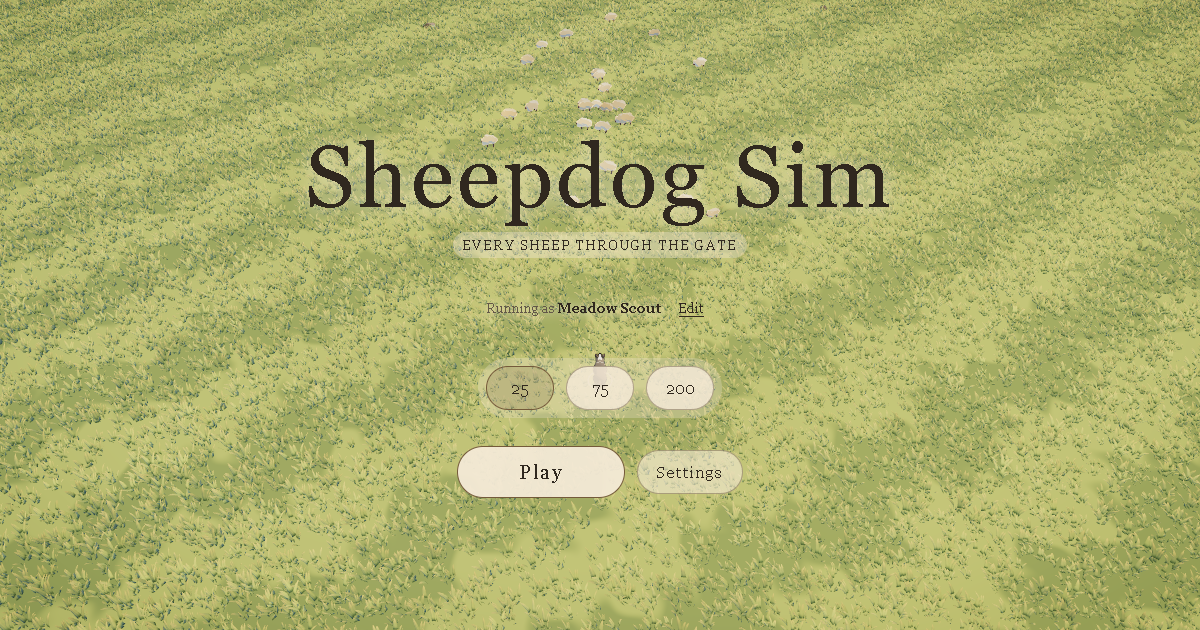
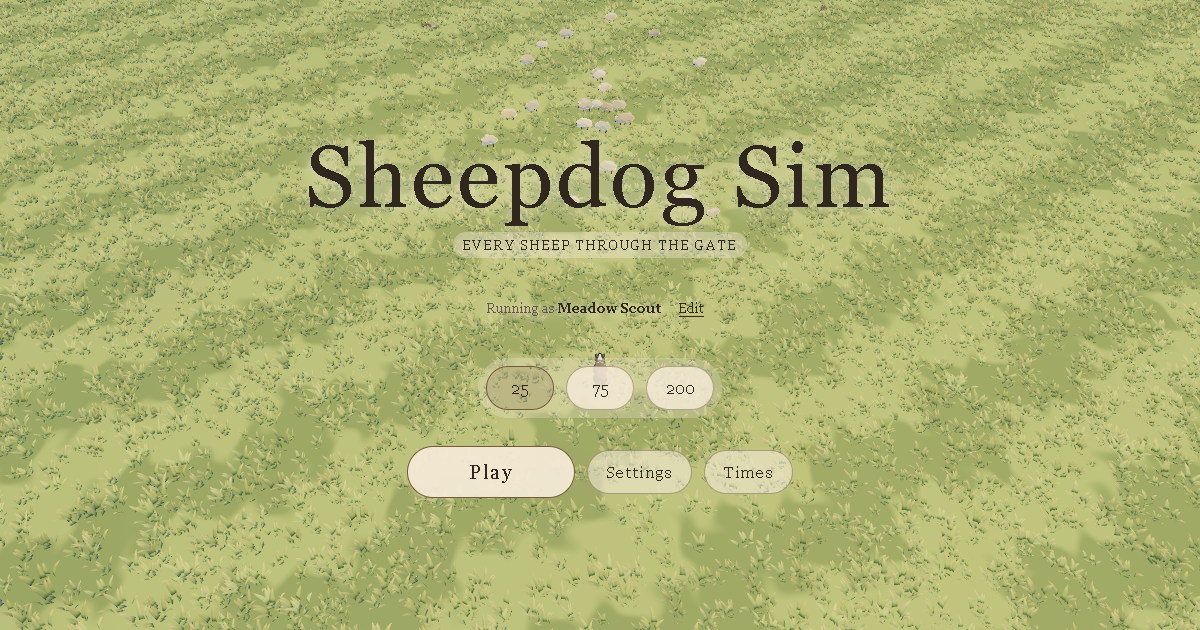
feat(scores): surface solo times before play

Changed region(s): [[0.0, 0.0, 1.0, 1.0]]

diff --git a/app/src/scores/LeaderboardPanel.tsx b/app/src/scores/LeaderboardPanel.tsx
@@ -1,0 +1,83 @@
+// SPDX-License-Identifier: AGPL-3.0-or-later
+// Copyright (c) 2026 Matthew Kissinger
+
+import { useEffect, useState } from 'react';
+import { FLOCK_SIZES, type FlockSize } from '@app/state/store';
+import { formatRunTime } from '@app/ui/time';
+import { scoresController } from './controller';
+import { useScoreStore } from './store';
+
+export function LeaderboardPanel({
+  initialFlockSize,
+  onClose,
+}: {
+  readonly initialFlockSize: FlockSize;
+  readonly onClose: () => void;
+}) {
+  const [flockSize, setFlockSize] = useState(initialFlockSize);
+  const status = useScoreStore((state) => state.boardStatus);
+  const entries = useScoreStore((state) => state.boardEntries);
+  const message = useScoreStore((state) => state.boardMessage);
+
+  useEffect(() => {
+    void scoresController.loadBoard(flockSize);
+  }, [flockSize]);
+
+  useEffect(() => {
+    const closeOnEscape = (event: KeyboardEvent) => {
+      if (event.key === 'Escape') onClose();
+    };
+    window.addEventListener('keydown', closeOnEscape);
+    return () => {
+      window.removeEventListener('keydown', closeOnEscape);
+    };
+  }, [onClose]);
+
+  return (
+    <div className="herd-modal" role="dialog" aria-modal="true" aria-labelledby="times-title">
+      <section className="herd-panel herd-board-panel">
+        <header className="herd-panel__header">
+          <div>
+            <p className="herd-panel__kicker">Fastest complete runs</p>
+            <h2 id="times-title" className="herd-panel__title">Solo times</h2>
+          </div>
+          <button
+            type="button"
+            className="herd-icon-button"
+            aria-label="Close solo times"
+            autoFocus
+            onClick={onClose}
+          >
+            Close
+          </button>
+        </header>
+        <div className="herd-board-tabs" aria-label="Flock size">
+          {FLOCK_SIZES.map((size) => (
+            <button
+              key={size}
+              type="button"
+              className="herd-size"
+              aria-pressed={size === flockSize}
+              onClick={() => setFlockSize(size)}
+            >
+              {size}
+            </button>
+          ))}
+        </div>
+        <p className="herd-board-caption">Fastest runs with {flockSize} sheep.</p>
+        {status === 'loading' || status === 'offline' || entries.length === 0 ? (
+          <p className="herd-board-message" role="status">{message}</p>
+        ) : (
+          <ol className="herd-board-list" aria-label={`${flockSize}-sheep solo times`}>
+            {entries.slice(0, 10).map((entry) => (
+              <li key={entry.persistentId}>
+                <span><span className="herd-board-rank">{entry.rank}.</span> {entry.displayName}</span>
+                <span>{formatRunTime(entry.scoreSeconds * 1000)}</span>
+              </li>
+            ))}
+          </ol>
+        )}
+      </section>
+    </div>
+  );
+}

diff --git a/app/src/scores/controller.ts b/app/src/scores/controller.ts
@@ -1,7 +1,7 @@
 // SPDX-License-Identifier: AGPL-3.0-or-later
 // Copyright (c) 2026 Matthew Kissinger
 
-import { useGameStore } from '@app/state/store';
+import { useGameStore, type FlockSize } from '@app/state/store';
 import { createScoreApi, ScoreApiError, type ScoreApi } from './api';
 import { scoreApiBase } from './config';
 import { browserIdentityStorage, type IdentityStorage } from './storage';
@@ -12,6 +12,7 @@ export interface ScoresController {
   start(): () => void;
   ensureIdentity(): Promise<ScoreIdentity | null>;
   rename(displayName: string): Promise<boolean>;
+  loadBoard(flockSize: FlockSize): Promise<void>;
   submit(run: CompletedRun): Promise<void>;
 }
 
@@ -22,6 +23,7 @@ export function createScoresController(
   let token: string | null = null;
   let identityPromise: Promise<ScoreIdentity | null> | null = null;
   let lastRunKey = '';
+  let boardRequest = 0;
 
   const register = async (fresh = false): Promise<ScoreIdentity> => {
     const stored = fresh ? null : storage.load();
@@ -167,6 +169,34 @@ export function createScoresController(
           : 'Name change is unavailable. Play still works.';
         useScoreStore.getState().patch({ renaming: false, renameMessage: message });
         return false;
+      }
+    },
+
+    async loadBoard(flockSize) {
+      const request = ++boardRequest;
+      useScoreStore.getState().patch({
+        boardStatus: 'loading',
+        boardFlockSize: flockSize,
+        boardEntries: [],
+        boardMessage: `Loading ${flockSize}-sheep times.`,
+      });
+      try {
+        const entries = await api.leaderboard(flockSize);
+        if (request !== boardRequest) return;
+        useScoreStore.getState().patch({
+          boardStatus: 'ready',
+          boardFlockSize: flockSize,
+          boardEntries: entries,
+          boardMessage: entries.length === 0 ? 'No times yet. Yours could be first.' : '',
+        });
+      } catch {
+        if (request !== boardRequest) return;
+        useScoreStore.getState().patch({
+          boardStatus: 'offline',
+          boardFlockSize: flockSize,
+          boardEntries: [],
+          boardMessage: 'Online times are unavailable. Play still works.',
+        });
       }
     },
 

diff --git a/app/src/ui/Boot.tsx b/app/src/ui/Boot.tsx
@@ -9,6 +9,7 @@ import {
 } from '@app/state/store';
 import { useReducedMotion } from './useReducedMotion';
 import { PlayerIdentity } from '@app/scores/PlayerIdentity';
+import { LeaderboardPanel } from '@app/scores/LeaderboardPanel';
 
 export function Boot() {
   const startGame = useGameStore((state) => state.startGame);
@@ -18,8 +19,15 @@ export function Boot() {
   const defaultFlockSize = useGameStore((state) => state.flockSize);
   const [flockSize, setFlockSize] = useState<FlockSize>(defaultFlockSize);
   const [leaving, setLeaving] = useState(false);
+  const [showTimes, setShowTimes] = useState(false);
   const timeout = useRef<number | null>(null);
+  const timesButton = useRef<HTMLButtonElement | null>(null);
   const reducedMotion = useReducedMotion();
+
+  const closeTimes = () => {
+    setShowTimes(false);
+    window.requestAnimationFrame(() => timesButton.current?.focus());
+  };
 
   useEffect(() => () => {
     if (timeout.current !== null) window.clearTimeout(timeout.current);
@@ -82,8 +90,19 @@ export function Boot() {
           >
             Settings
           </button>
+          <button
+            ref={timesButton}
+            type="button"
+            className="herd-button herd-button--quiet"
+            onClick={() => setShowTimes(true)}
+          >
+            Times
+          </button>
         </div>
       </main>
+      {showTimes ? (
+        <LeaderboardPanel initialFlockSize={flockSize} onClose={closeTimes} />
+      ) : null}
     </div>
   );
 }

diff --git a/app/src/ui/UiStyles.tsx b/app/src/ui/UiStyles.tsx
@@ -70,6 +70,13 @@ canvas { display: block; touch-action: none; }
 .herd-online-times p { margin: 0 0 var(--herd-s3); }
 .herd-online-times ol { width: 100%; display: grid; gap: var(--herd-s1); margin: 0; padding: var(--herd-s3) 0 0; border-top: 1px solid var(--herd-line); list-style: none; }
 .herd-online-times li { display: flex; justify-content: space-between; gap: var(--herd-s4); font-variant-numeric: tabular-nums; text-align: left; }
+.herd-board-panel { width: min(92vw, 520px); }
+.herd-board-tabs { display: flex; justify-content: center; gap: var(--herd-s3); margin-bottom: var(--herd-s4); }
+.herd-board-caption { margin: 0 0 var(--herd-s4); color: var(--herd-ink-soft); text-align: center; }
+.herd-board-message { min-height: 120px; display: grid; place-items: center; margin: 0; color: var(--herd-ink-soft); text-align: center; }
+.herd-board-list { display: grid; gap: var(--herd-s2); margin: 0; padding: var(--herd-s4) 0 0; border-top: 1px solid var(--herd-line); list-style: none; }
+.herd-board-list li { min-height: 34px; display: flex; align-items: center; justify-content: space-between; gap: var(--herd-s4); font-variant-numeric: tabular-nums; }
+.herd-board-rank { color: var(--herd-ink-soft); }
 .herd-panel-actions { display: flex; flex-direction: column; align-items: stretch; gap: var(--herd-s3); margin-top: var(--herd-s5); }
 .herd-settings-list { display: grid; gap: var(--herd-s5); }
 .herd-setting { display: grid; gap: var(--herd-s2); }

diff --git a/app/src/scores/store.ts b/app/src/scores/store.ts
@@ -7,6 +7,7 @@ import type { LeaderboardEntry, ScoreIdentity } from './types';
 
 export type IdentityStatus = 'idle' | 'connecting' | 'ready' | 'offline';
 export type SubmissionStatus = 'idle' | 'submitting' | 'ready' | 'offline';
+export type BoardStatus = 'idle' | 'loading' | 'ready' | 'offline';
 
 export interface ScoreStore {
   readonly identityStatus: IdentityStatus;
@@ -19,6 +20,10 @@ export interface ScoreStore {
   readonly entries: readonly LeaderboardEntry[];
   readonly rank: number | null;
   readonly submissionMessage: string;
+  readonly boardStatus: BoardStatus;
+  readonly boardFlockSize: FlockSize;
+  readonly boardEntries: readonly LeaderboardEntry[];
+  readonly boardMessage: string;
   patch(patch: Partial<Omit<ScoreStore, 'patch'>>): void;
 }
 const INITIAL = {
@@ -32,6 +37,10 @@ const INITIAL = {
   entries: [] as readonly LeaderboardEntry[],
   rank: null,
   submissionMessage: '',
+  boardStatus: 'idle' as const,
+  boardFlockSize: 25 as FlockSize,
+  boardEntries: [] as readonly LeaderboardEntry[],
+  boardMessage: '',
 };
 
 export const useScoreStore = create<ScoreStore>()((set) => ({

diff --git a/tests/scores-controller.spec.ts b/tests/scores-controller.spec.ts
@@ -140,4 +140,28 @@ describe('scores controller', () => {
       submissionMessage: 'Your local time is safe. The online board is unavailable.',
     });
   });
+
+  it('loads a public board without requiring a player identity', async () => {
+    let registered = false;
+    const api: ScoreApi = {
+      async register() { registered = true; return freshReceipt; },
+      async rename() { return freshReceipt.playerProfile; },
+      async submit() {},
+      async leaderboard(flockSize) {
+        expect(flockSize).toBe(75);
+        return [{
+          rank: 1, persistentId: 'pid-fast', displayName: 'SwiftShepherd',
+          fullName: 'SwiftShepherd#0001', scoreSeconds: 64.25,
+        }];
+      },
+    };
+
+    await createScoresController(api, memoryStorage()).loadBoard(75);
+
+    expect(registered).toBe(false);
+    expect(useScoreStore.getState()).toMatchObject({
+      boardStatus: 'ready', boardFlockSize: 75,
+      boardEntries: [{ displayName: 'SwiftShepherd', scoreSeconds: 64.25 }],
+    });
+  });
 });

diff --git a/tests/public-surface.spec.ts b/tests/public-surface.spec.ts
@@ -62,6 +62,16 @@ describe('public version 3 surface', () => {
     expect(controls).toContain('SPRINT_DEFLECTION');
   });
 
+  it('makes solo times reachable before a run', () => {
+    const boot = read('app/src/ui/Boot.tsx');
+    const board = read('app/src/scores/LeaderboardPanel.tsx');
+    expect(boot).toContain('setShowTimes(true)');
+    expect(boot).toContain('Times');
+    expect(board).toContain('Solo times');
+    expect(board).toContain('FLOCK_SIZES.map');
+    expect(board).toContain('scoresController.loadBoard');
+  });
+
   it('redirects retired version 2 scene pages and publishes the source routes', () => {
     const redirects = read('app/public/_redirects');
     const sitemap = read('app/public/sitemap.xml');

diff --git a/STATUS.md b/STATUS.md
@@ -12,6 +12,8 @@ deployment claim.
   `https://7cea2cd2.sds-frontend.pages.dev`.
 - Multiplayer and the 5,000-sheep player path are absent from the version 3
   client. Solo-time boards use only the isolated `field-v3` partition.
+- Solo times are reachable from the title screen and after a completed run.
+  Viewing the 25, 75 or 200 sheep boards does not create a player identity.
 - Production has not been changed. Worker and Pages deployment each require
   owner approval of the same full release-candidate commit SHA.
 - Player-facing branding is `Sheepdog Sim`. The `3.0.0` number is retained only
@@ -32,12 +34,12 @@ deployment claim.
 ## Clean SDS candidate evidence
 
 - Lint passed. Client and Worker TypeScript checks passed.
-- 77 test files and 608 tests passed.
+- 77 test files and 610 tests passed.
 - Root and Worker dependency audits report zero vulnerabilities.
 - Gitleaks 8.30.1 scanned 12.50 MB with no findings. Direct runtime and build
   dependencies report MIT, ISC, Apache-2.0 or dual MIT/Apache licensing.
-- The production build contains 231 modules. Initial JavaScript is 579,105
-  gzip bytes. Estimated first transfer is 5,761,223 bytes across 35 files,
+- The production build contains 232 modules. Initial JavaScript is 579,725
+  gzip bytes. Estimated first transfer is 5,760,428 bytes across 35 files,
   below the 8 MiB release limit.
 - The audio bake reproduced 17 files and 2,784,342 bytes exactly.
 - The deterministic simulation produced 23,563 identical bytes through the
@@ -47,9 +49,15 @@ deployment claim.
 - Desktop, tablet, phone portrait, phone landscape and reduced-motion UI probes
   passed with no clipped content or controls below 44 CSS pixels. This is
   Chromium touch emulation, not a physical-device receipt.
+- The title-screen times dialog passed those same layouts with keyboard focus,
+  Escape-to-close and focus restoration. Its preview data is mocked so browser
+  probes cannot create identities or write public scores.
+- The integrated grass motion critic passed native WebGPU and forced WebGL2 at
+  automatic Low and player-forced High settings. It could not reproduce the
+  rhythmic annulus, wake snapping or diagonal dark lane.
 - The 1,200 by 630 site card and 1,280 by 640 GitHub social preview were
   regenerated from the production bundle on actual WebGPU without score writes.
-  The GitHub JPEG is 325,603 bytes.
+  The GitHub JPEG is 273,355 bytes.
 - Canonical pages, JSON-LD, Open Graph, Twitter cards, robots, sitemap, legacy
   redirects and social-image dimensions pass the discovery gate. Production
   verification also requires the existing Cloudflare Web Analytics beacon.
@@ -58,9 +66,6 @@ deployment claim.
 
 ## Open release gates
 
-- Finish the integrated running-game grass motion critic. The separate
-  Three.js Field Grass package is WOWED and clean at `b23d2dc`, but that does
-  not replace an integrated-game motion receipt.
 - Complete the desktop, mobile, offline-score and service-worker transition
   matrix in `docs/launch/v3-launch-pack.md`.
 - Complete a physical iOS or Android playtest. Browser touch emulation already

diff --git a/progress.md b/progress.md
@@ -1,0 +1,30 @@
+Original prompt: Make the solo-times leaderboard accessible before play, with optional player names, while keeping production unchanged until owner playtest approval.
+
+## Completed
+
+- Added a title-screen `Times` entry point and a responsive leaderboard panel.
+- Added 25, 75, and 200 sheep board tabs.
+- Preserved the post-run top-times view and optional-name flow.
+- Added controller, public-surface, and responsive browser-probe coverage.
+- Configured the pull-request preview to use an isolated preview Worker and D1 database.
+- Added Escape-to-close and keyboard-focus restoration for the times dialog.
+- Browser QA caught and fixed the first focus-restoration implementation before release.
+
+## Verification pending
+
+- Push the candidate and verify the isolated Worker plus Pages preview end to end.
+- Inspect the final remote leaderboard screenshots on desktop and mobile.
+
+## Verification complete
+
+- Lint and client plus Worker typechecks passed.
+- All 77 test files and 610 tests passed.
+- Production build, discovery gate, and release probe passed.
+- Responsive UI probe passed desktop, tablet, phone portrait, phone landscape,
+  and reduced-motion cases with no errors, overflow, or undersized controls.
+- The required web-game browser client opened the Times dialog successfully.
+- Desktop and phone leaderboard screenshots were visually inspected.
+
+## Release hold
+
+- Do not merge or deploy production until Matt completes the playtest and approves the exact candidate SHA.
